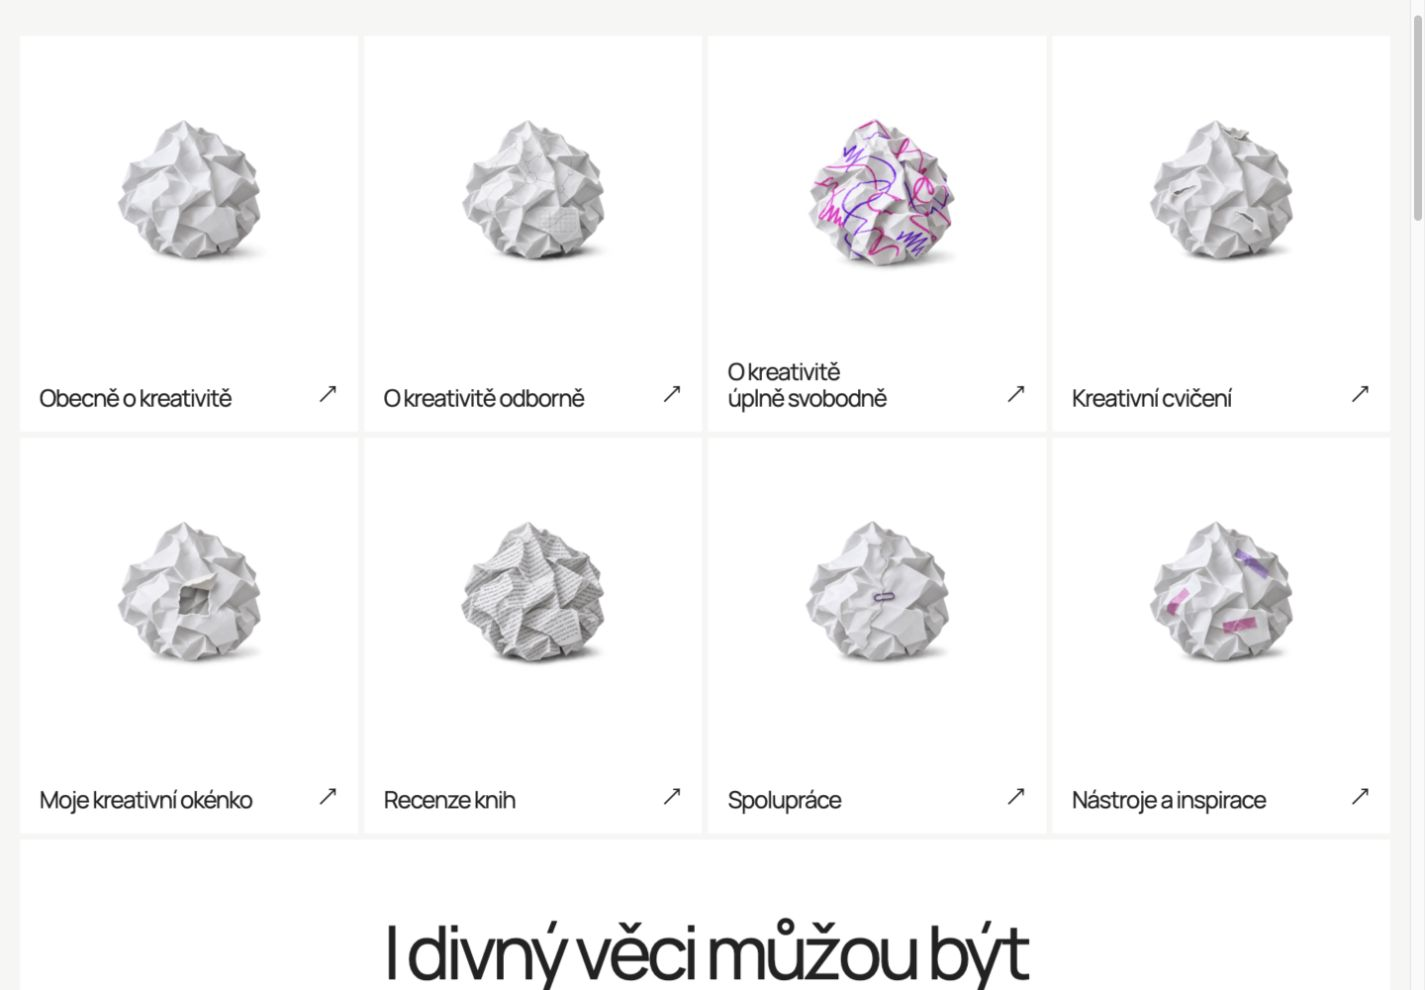
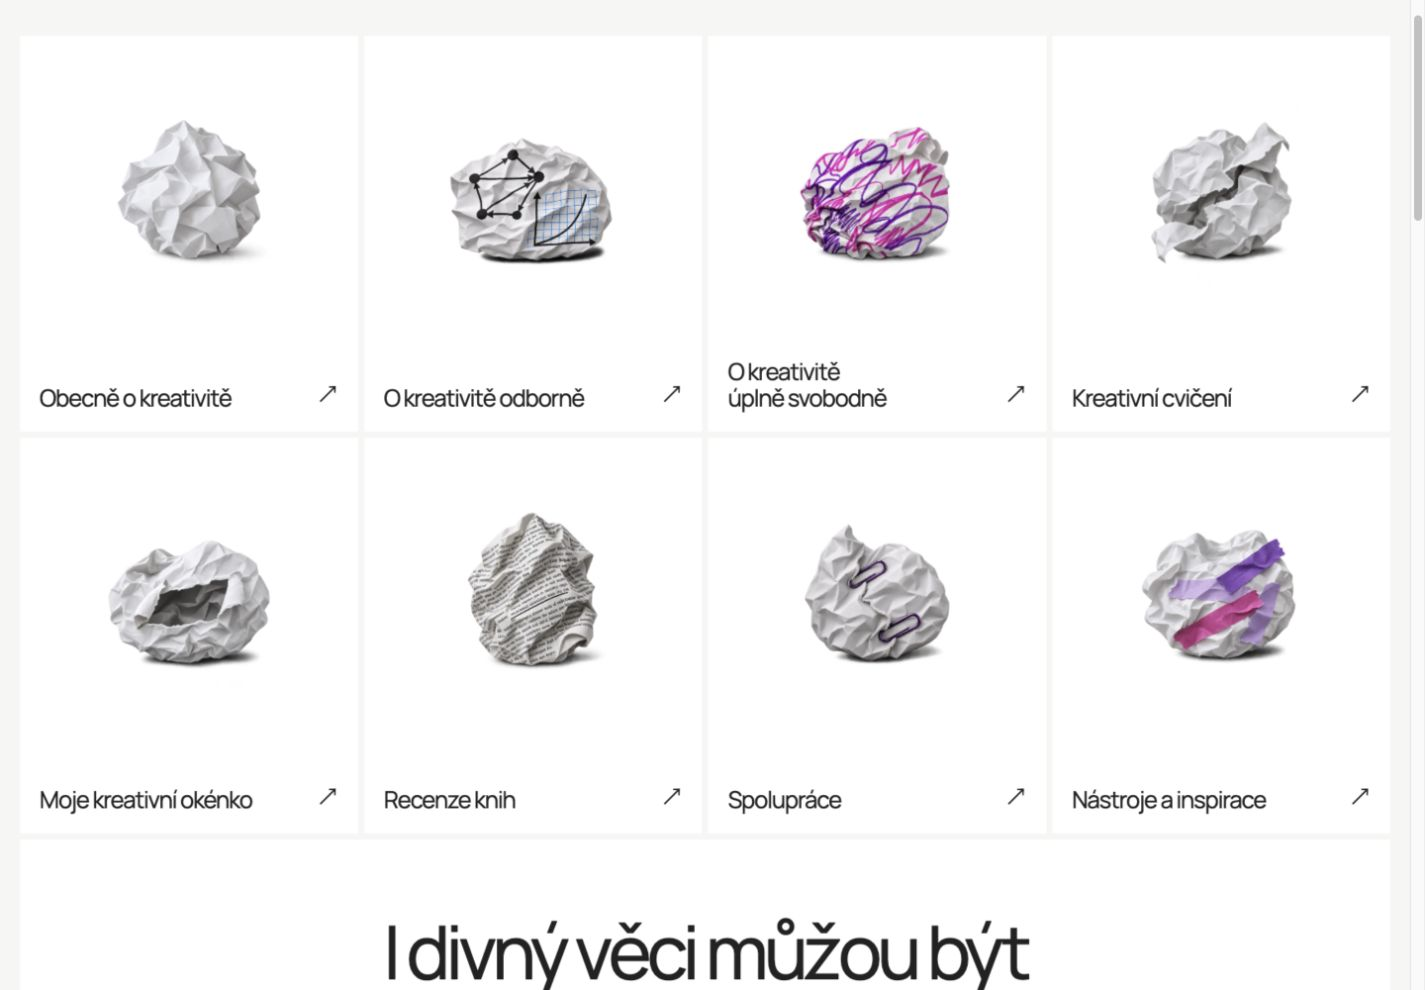
Zvýraznit papírové motivy a přirozeně odlišit zmačkání

diff --git a/src/data/creative-photos.ts b/src/data/creative-photos.ts
@@ -1,10 +1,10 @@
-/** Crumpled-paper AI studio series. Origins and prompts: docs/PAPER-PHOTOS-V2.md. */
+/** Crumpled-paper AI studio series. Origins and prompts: docs/PAPER-PHOTOS-V3.md. */
 import obecne from '../assets/creative-paper/obecne-v1.png';
-import odborne from '../assets/creative-paper/odborne-v2.png';
-import svobodne from '../assets/creative-paper/svobodne-v1.png';
-import cviceni from '../assets/creative-paper/cviceni-v2.png';
-import okenko from '../assets/creative-paper/okenko-v2.png';
-import recenze from '../assets/creative-paper/recenze-v2.png';
-import spoluprace from '../assets/creative-paper/spoluprace-v2.png';
-import inspirace from '../assets/creative-paper/inspirace-v2.png';
+import odborne from '../assets/creative-paper/odborne-v3.png';
+import svobodne from '../assets/creative-paper/svobodne-v3.png';
+import cviceni from '../assets/creative-paper/cviceni-v3.png';
+import okenko from '../assets/creative-paper/okenko-v3.png';
+import recenze from '../assets/creative-paper/recenze-v3.png';
+import spoluprace from '../assets/creative-paper/spoluprace-v3.png';
+import inspirace from '../assets/creative-paper/inspirace-v3.png';
 export const creativePhotos = { obecne, odborne, svobodne, cviceni, okenko, recenze, spoluprace, inspirace };

diff --git a/docs/PAPER-PHOTOS-V3.md b/docs/PAPER-PHOTOS-V3.md
@@ -1,0 +1,106 @@
+# Přirozeně rozdílný papír, výraznější motivy
+
+Vytvořeno 7. 11. 2026 vestavěným ImageGen, bez CLI/API. AI fotografické studie, nikoli autorské fotografie Marka. Autor upřesnil: stejné optické měřítko, ale různé tvary a zmačkání. Předchozí požadavek kopírovat přesnou geometrii jedné koule je překonaný. Rozdíly musí fungovat i v malém náhledu.
+
+Základ `obecne-v1.png` zůstává čistý. Sedm nových variant používá tento snímek pouze jako referenci světla, měřítka a materiálu; každá má novou geometrii. Odborně má výrazné černé schéma a graf, cvičení velké trhliny a odchlíplé pruhy, svobodně silné čmárání, okénko výrazný otvor, recenze kontrastní dekorativní potisk, spolupráce velké sponky a inspirace široké barevné pásky. Graf je ilustrace, ne odborná data; potisk není citace ani skutečná kniha.
+
+Výstupy jsou transparentní PNG; alfa kanál a zdrojové soubory se zachovávají. V1 i V2 jsou archivní, žádný původní soubor nebyl přepsán. Velikost v rozcestníku je dorovnána pomocí CSS podle skutečné siluety, bez deformace bitmap. Sdílené mapování `src/data/creative-photos.ts` mění také rubrikové náhledy. Ostatní obsah a krátká gesta dlaždic se nemění.
+
+## odborne
+
+Projekt: `src/assets/creative-paper/odborne-v3.png`
+
+Zdroj: `/Users/marekstojka/.codex/generated_images/01a1b2d0-148d-7350-b48c-58dfb2bcce58/exec-2a60f06e-9b99-4da8-bcbe-d412dd583a4d.png`
+
+Reference: `/Users/marekstojka/Library/Mobile Documents/com~apple~CloudDocs/Moje/_můj web/src/assets/creative-paper/obecne-v1.png`
+
+Nastavení: `transparent_background: true`, `referenced_image_paths: [reference]`.
+
+Přesný prompt:
+
+Use case: precise-object-edit. Asset: photographic crumpled-paper motif for a small website category tile. Image 1 is a STYLE, LIGHTING AND SCALE REFERENCE, not a geometry template. Make a DIFFERENT naturally hand-crumpled white paper ball. Change its silhouette, creases and fold structure substantially, while keeping the same apparent object size, camera angle, studio photography, matte white paper, upper-left soft light and subtle contact shadow. Match the portrait reference canvas and generous empty margins: entire object around 70% canvas width and 50% canvas height, centered around x50%, y52%, bottom around 77%. One compact paper object with approximately equal visual mass to the reference, fully in frame, no detached objects. TRUE transparent alpha background, no white rectangle or checkerboard. Paper must have organic dents and irregular wrinkles, not geometric low-poly origami. Strong identifying treatment must be clear when this object is displayed only 150 pixels wide. No hands, tools, scene, logos, orange, title labels or readable body text. Distinctive form: a squat, slightly wider paper wad, flattened on the left and rounded on the right, irregular shallow dents with broad front folds. Surface: clearly visible BLACK INK scientific diagrams covering most of the front surface: a large network of 5 solid black dots joined by thick straight lines and arrows, and one bold XY graph with a rising black curve over a medium-blue graph-paper grid. Lines must be confidently dark and thick, not faint pencil; diagrams must remain instantly recognizable at thumbnail size. Ink follows the crumpled folds and disappears into valleys. No letters or equations, no text.
+
+## cviceni
+
+Projekt: `src/assets/creative-paper/cviceni-v3.png`
+
+Zdroj: `/Users/marekstojka/.codex/generated_images/01a1b2d0-148d-7350-b48c-58dfb2bcce58/exec-e1dca6a8-a1dc-4569-b2e8-d517c718543b.png`
+
+Reference: `/Users/marekstojka/Library/Mobile Documents/com~apple~CloudDocs/Moje/_můj web/src/assets/creative-paper/obecne-v1.png`
+
+Nastavení: `transparent_background: true`, `referenced_image_paths: [reference]`.
+
+Přesný prompt:
+
+Use case: precise-object-edit. Asset: photographic crumpled-paper motif for a small website category tile. Image 1 is a STYLE, LIGHTING AND SCALE REFERENCE, not a geometry template. Make a DIFFERENT naturally hand-crumpled white paper ball. Change its silhouette, creases and fold structure substantially, while keeping the same apparent object size, camera angle, studio photography, matte white paper, upper-left soft light and subtle contact shadow. Match the portrait reference canvas and generous empty margins: entire object around 70% canvas width and 50% canvas height, centered around x50%, y52%, bottom around 77%. One compact paper object with approximately equal visual mass to the reference, fully in frame, no detached objects. TRUE transparent alpha background, no white rectangle or checkerboard. Paper must have organic dents and irregular wrinkles, not geometric low-poly origami. Strong identifying treatment must be clear when this object is displayed only 150 pixels wide. No hands, tools, scene, logos, orange, title labels or readable body text. Distinctive form: an irregular compact rounded paper wad torn open into four broad attached paper flaps, the bulky crumpled core still obvious. A bold deep zigzag split runs diagonally across the front, with conspicuous ragged fibrous edges and dark interior fold shadows; two of the broad torn strips curl outward at the top-right and lower-left. This is visibly TORN and experimented-on paper even at thumbnail size, not three tiny scratches. White paper only, no drawing. Keep all flaps connected and the overall bounding footprint and visual mass comparable to the reference; do not make a flat sheet, flower, plane, book or scattered scraps.
+
+## svobodne
+
+Projekt: `src/assets/creative-paper/svobodne-v3.png`
+
+Zdroj: `/Users/marekstojka/.codex/generated_images/01a1b2d0-148d-7350-b48c-58dfb2bcce58/exec-ed74a528-d6c3-4555-86b0-78e0ea140441.png`
+
+Reference: `/Users/marekstojka/Library/Mobile Documents/com~apple~CloudDocs/Moje/_můj web/src/assets/creative-paper/obecne-v1.png`
+
+Nastavení: `transparent_background: true`, `referenced_image_paths: [reference]`.
+
+Přesný prompt:
+
+Use case: precise-object-edit. Asset: photographic crumpled-paper motif for a small website category tile. Image 1 is a STYLE, LIGHTING AND SCALE REFERENCE, not a geometry template. Make a DIFFERENT naturally hand-crumpled white paper ball. Change its silhouette, creases and fold structure substantially, while keeping the same apparent object size, camera angle, studio photography, matte white paper, upper-left soft light and subtle contact shadow. Match the portrait reference canvas and generous empty margins: entire object around 70% canvas width and 50% canvas height, centered around x50%, y52%, bottom around 77%. One compact paper object with approximately equal visual mass to the reference, fully in frame, no detached objects. TRUE transparent alpha background, no white rectangle or checkerboard. Paper must have organic dents and irregular wrinkles, not geometric low-poly origami. Strong identifying treatment must be clear when this object is displayed only 150 pixels wide. No hands, tools, scene, logos, orange, title labels or readable body text. Distinctive form: a softly rounded irregular wad leaning slightly left, with dense compressed wrinkles at lower left and a loose curled top edge on the right; no pointed triangular summit like the reference. Surface: energetic thick dark-violet and magenta felt-tip loops, zigzags and rough hatching over most of the visible front. Strong saturated strokes, spontaneous and unruly, wrapping around the new organic folds. Plenty of white paper remains between the bold scribbles. No letters, pictograms, words or symmetrical pattern.
+
+## okenko
+
+Projekt: `src/assets/creative-paper/okenko-v3.png`
+
+Zdroj: `/Users/marekstojka/.codex/generated_images/01a1b2d0-148d-7350-b48c-58dfb2bcce58/exec-08998f0a-41eb-4e2d-92e7-c9126a2774e0.png`
+
+Reference: `/Users/marekstojka/Library/Mobile Documents/com~apple~CloudDocs/Moje/_můj web/src/assets/creative-paper/obecne-v1.png`
+
+Nastavení: `transparent_background: true`, `referenced_image_paths: [reference]`.
+
+Přesný prompt:
+
+Use case: precise-object-edit. Asset: photographic crumpled-paper motif for a small website category tile. Image 1 is a STYLE, LIGHTING AND SCALE REFERENCE, not a geometry template. Make a DIFFERENT naturally hand-crumpled white paper ball. Change its silhouette, creases and fold structure substantially, while keeping the same apparent object size, camera angle, studio photography, matte white paper, upper-left soft light and subtle contact shadow. Match the portrait reference canvas and generous empty margins: entire object around 70% canvas width and 50% canvas height, centered around x50%, y52%, bottom around 77%. One compact paper object with approximately equal visual mass to the reference, fully in frame, no detached objects. TRUE transparent alpha background, no white rectangle or checkerboard. Paper must have organic dents and irregular wrinkles, not geometric low-poly origami. Strong identifying treatment must be clear when this object is displayed only 150 pixels wide. No hands, tools, scene, logos, orange, title labels or readable body text. Distinctive form: slightly wide oval crumpled wad with crushed lower folds and an asymmetrical dent at the upper left. A SINGLE LARGE rough rectangular viewing window is torn through the front, about 40% of the object width, with two visibly outward-rolled torn paper edges. Clearly visible dark gray recessed inner paper folds inside this opening. Strong deep opening recognizable at small size. White paper only, not a hollow tube, box or flat picture frame; the surrounding volume remains visibly an organically crumpled paper ball.
+
+## recenze
+
+Projekt: `src/assets/creative-paper/recenze-v3.png`
+
+Zdroj: `/Users/marekstojka/.codex/generated_images/01a1b2d0-148d-7350-b48c-58dfb2bcce58/exec-799ac589-aea2-407f-8330-662bd35d02ef.png`
+
+Reference: `/Users/marekstojka/Library/Mobile Documents/com~apple~CloudDocs/Moje/_můj web/src/assets/creative-paper/obecne-v1.png`
+
+Nastavení: `transparent_background: true`, `referenced_image_paths: [reference]`.
+
+Přesný prompt:
+
+Use case: precise-object-edit. Asset: photographic crumpled-paper motif for a small website category tile. Image 1 is a STYLE, LIGHTING AND SCALE REFERENCE, not a geometry template. Make a DIFFERENT naturally hand-crumpled white paper ball. Change its silhouette, creases and fold structure substantially, while keeping the same apparent object size, camera angle, studio photography, matte white paper, upper-left soft light and subtle contact shadow. Match the portrait reference canvas and generous empty margins: entire object around 70% canvas width and 50% canvas height, centered around x50%, y52%, bottom around 77%. One compact paper object with approximately equal visual mass to the reference, fully in frame, no detached objects. TRUE transparent alpha background, no white rectangle or checkerboard. Paper must have organic dents and irregular wrinkles, not geometric low-poly origami. Strong identifying treatment must be clear when this object is displayed only 150 pixels wide. No hands, tools, scene, logos, orange, title labels or readable body text. Distinctive form: a compact upright uneven oval wad, creases crushed diagonally, slightly taller than wide with a rolled lower-right edge. This wad is made from a PRINTED BOOK PAGE: dense high-contrast black serif text-like printing across almost its entire surface in varied paragraph lines, with a few generous white margins and one thicker black underlined passage. Decorative generic illegible typesetting only, no actual quote, recognizable book, author, title or logo. The dark book-page texture must be obvious at thumbnail size. Not a physical bound book.
+
+## spoluprace
+
+Projekt: `src/assets/creative-paper/spoluprace-v3.png`
+
+Zdroj: `/Users/marekstojka/.codex/generated_images/01a1b2d0-148d-7350-b48c-58dfb2bcce58/exec-587db0e7-033b-431c-8d37-ad54e8c59901.png`
+
+Reference: `/Users/marekstojka/Library/Mobile Documents/com~apple~CloudDocs/Moje/_můj web/src/assets/creative-paper/obecne-v1.png`
+
+Nastavení: `transparent_background: true`, `referenced_image_paths: [reference]`.
+
+Přesný prompt:
+
+Use case: precise-object-edit. Asset: photographic crumpled-paper motif for a small website category tile. Image 1 is a STYLE, LIGHTING AND SCALE REFERENCE, not a geometry template. Make a DIFFERENT naturally hand-crumpled white paper ball. Change its silhouette, creases and fold structure substantially, while keeping the same apparent object size, camera angle, studio photography, matte white paper, upper-left soft light and subtle contact shadow. Match the portrait reference canvas and generous empty margins: entire object around 70% canvas width and 50% canvas height, centered around x50%, y52%, bottom around 77%. One compact paper object with approximately equal visual mass to the reference, fully in frame, no detached objects. TRUE transparent alpha background, no white rectangle or checkerboard. Paper must have organic dents and irregular wrinkles, not geometric low-poly origami. Strong identifying treatment must be clear when this object is displayed only 150 pixels wide. No hands, tools, scene, logos, orange, title labels or readable body text. Distinctive form: two DIFFERENT crumpled white paper pieces fitted closely together to make ONE compact irregular rounded mass, left half a little taller, right half fuller and rounder. A very obvious jagged joining seam cuts across the front. Two LARGE dark-violet metal paperclips physically bridge the torn edges: one near upper-middle and one near lower-right, each about a quarter of the ball's height. Strong violet silhouettes and visible metal highlights readable at thumbnail size. Fibrous torn seam, no writing. Must remain one joined crumpled object, not two separate balls.
+
+## inspirace
+
+Projekt: `src/assets/creative-paper/inspirace-v3.png`
+
+Zdroj: `/Users/marekstojka/.codex/generated_images/01a1b2d0-148d-7350-b48c-58dfb2bcce58/exec-72d7a454-508b-4e8a-b15e-ce5b31611d95.png`
+
+Reference: `/Users/marekstojka/Library/Mobile Documents/com~apple~CloudDocs/Moje/_můj web/src/assets/creative-paper/obecne-v1.png`
+
+Nastavení: `transparent_background: true`, `referenced_image_paths: [reference]`.
+
+Přesný prompt:
+
+Use case: precise-object-edit. Asset: photographic crumpled-paper motif for a small website category tile. Image 1 is a STYLE, LIGHTING AND SCALE REFERENCE, not a geometry template. Make a DIFFERENT naturally hand-crumpled white paper ball. Change its silhouette, creases and fold structure substantially, while keeping the same apparent object size, camera angle, studio photography, matte white paper, upper-left soft light and subtle contact shadow. Match the portrait reference canvas and generous empty margins: entire object around 70% canvas width and 50% canvas height, centered around x50%, y52%, bottom around 77%. One compact paper object with approximately equal visual mass to the reference, fully in frame, no detached objects. TRUE transparent alpha background, no white rectangle or checkerboard. Paper must have organic dents and irregular wrinkles, not geometric low-poly origami. Strong identifying treatment must be clear when this object is displayed only 150 pixels wide. No hands, tools, scene, logos, orange, title labels or readable body text. Distinctive form: a compact broad irregular round paper wad with a shallow dip at the top, several soft curled edges and a looser folded bulge on the left. Four WIDE opaque paper-tape strips in violet, lavender and magenta stick at different angles across its front surface; two strips overlap clearly. The strips have torn ends and conform to the new wrinkles, with slight lifted paper-tape edge texture. Strong visible color areas across about one third of the ball, lots of white still exposed. No scribbles or words. No detached tape rolls or tools.
+

diff --git a/docs/DESIGN.md b/docs/DESIGN.md
@@ -471,3 +471,11 @@ Autor nově požádal zmenšit fotografie i výšku úvodních dlaždic. Mříž
 Navazující výslovné upřesnění: VE VŠECH dlaždicích držet podobný tvar a zmačkání stejné papírové koule, pouze s různým zpracováním. Vlaštovka, ploché okénko, otevřená knížka a lahev jsou proto nahrazené koulemi. Aktuální motivy: čistý papír / schémata / čmáranice / natržení / malé okénko v kouli / potisk / trhlina spojená sponkou / papírové pásky. Čistá a počmáraná koule V1 zachované, ostatních šest vzniklo vestavěným ImageGen přímou editací stejného základu, nikoli samostatnou volnou reinterpretací. Přesné prompty, soubory a původ v PAPER-PHOTOS-V2.md. V1 zdroje včetně lahve a letadla zůstávají archivně. Generovaný potisk není citace z knihy. Mapování creative-photos.ts sjednocuje i rubrikové náhledy.
 
 Krátké pohyby zůstávají, všechny trvají 1,5 s. Cvičení již nedělá výrazný přelet vlaštovky, pouze se lehce zhoupne. Bez nové smyčky, ovládání nebo změn navigace. Ověřeno 1440 px a 390/320 px, všechny obrázky načtené, shodné výšky dlaždic a žádný vodorovný přesah. Náhledy nahled-kreativec.jpg a nahled-kreativec-dlazdice-mobile.jpg aktualizované.
+
+## Rozdílné zmačkání a čitelné zásahy — 7. 11. 2026
+
+Autor pochválil směr a výslovně upřesnil, že shodné má být MĚŘÍTKO, nikoli přesná geometrie koule. Každý papír může být jinak zmačkaný; předchozí pravidlo kopírovat stejné záhyby je překonané. Zároveň požaduje výraznější rozdíly, zejména O kreativitě odborně a Kreativní cvičení.
+
+Čistá koule obecne-v1 zůstává, ostatních sedm motivů má novou V3 geometrii a silnější vizuální zásah: černá síť bodů/šipek a graf s modrou mřížkou / syté čmárání / velká trhlina s odchlíplými pruhy / větší okénko / kontrastní textový potisk / dvě velké fialové sponky přes spoj / široké barevné pásky. Všechny zůstávají prostorově zmačkaným papírem, tvary jsou různě široké, sevřené nebo volné. Sedm AI studií vzniklo vestavěným ImageGen, přesné prompty a zdroje v PAPER-PHOTOS-V3.md. Nový návrh čeká na další zpětnou vazbu; nejde o finálně schválené autorovy fotografie. Schéma nevyjadřuje výzkumná data a potisk není citace.
+
+CreativeDirectory opticky vyrovnává plochu siluet drobnými CSS scale korekcemi, nezávislými na existujícím pohybu. Malé rozměry a výšky dlaždic, názvy, odkazy i 1,5s gesta zůstávají. Mapování creative-photos.ts používá V3 i v rubrikových náhledech; původní soubory V1/V2 zachované archivně. Ověřeno 1440 px a 390 px, všech osm obrázků načteno, žádný vodorovný přesah, názvy se vejdou; proklik do odborné rubriky a návrat bez chyb konzole. Produkční build s projektovým podadresářem úspěšný: 31 HTML, 727 lokálních URL, Astro bez chyb/varování. Snímky nahled-kreativec.jpg a nahled-kreativec-dlazdice-mobile.jpg aktualizované.

diff --git a/README.md b/README.md
@@ -368,3 +368,5 @@ Revize (6. 11. 2026): pod rozcestníkem je banán přes celou šířku bílého 
 Autor následně potvrdil zachování VELKÝCH dlaždic; zkoušíme oživit jejich motivy. `CreativeDirectory.astro` zachovává fotografie i mřížku a přidává jednotlivá krátká gesta při vstupu do výhledu, hoveru a focusu. Žádná trvalá smyčka; mimo výhled/neaktivní kartu pohyb končí, reduced motion je statický. Návrat přes Astro navigaci znovu správně inicializuje sekci. Aktuální náhledy: `docs/nahled-kreativec.jpg` a `docs/nahled-kreativec-dlazdice-mobile.jpg`.
 
 Nejnovější revize (6. 11. 2026): na požadavek autora jsou dlaždice kompaktnější, vysoké 320–440 px na desktopu / 360 px na tabletu / 300 px na mobilu, s menšími motivy. Všech osm obrázků nyní drží tvar téže zmačkané papírové koule, jednou čisté, jindy počmárané, natržené, s okénkem, potiskem, sponkou nebo páskami. Nových šest fotografických AI studií a přesná zadání: `docs/PAPER-PHOTOS-V2.md`; soubory `src/assets/creative-paper/*-v2.png`. Mapování `creative-photos.ts` používají i rubriky. Letadlo, knížka a lahev zůstávají pouze archivně. Aktuální snímky výše zachycují menší podobu.
+
+Upřesnění (7. 11. 2026): motivy mají stejné optické měřítko, ale každý NOVĚ jiný tvar a zmačkání. Výraznější schémata, trhliny, potisk, sponky a pásky se dají rozlišit i v malé dlaždici. Čistá koule V1 zůstává, sedm nových AI fotografických studií je v `src/assets/creative-paper/*-v3.png`; původ a přesná zadání `docs/PAPER-PHOTOS-V3.md`. Drobné CSS korekce srovnávají velikost jednotlivých siluet bez deformace. Výšky dlaždic i pohyb zachované. Ověřeno na desktopu a mobilu, aktualizované `docs/nahled-kreativec.jpg` a `docs/nahled-kreativec-dlazdice-mobile.jpg`.
